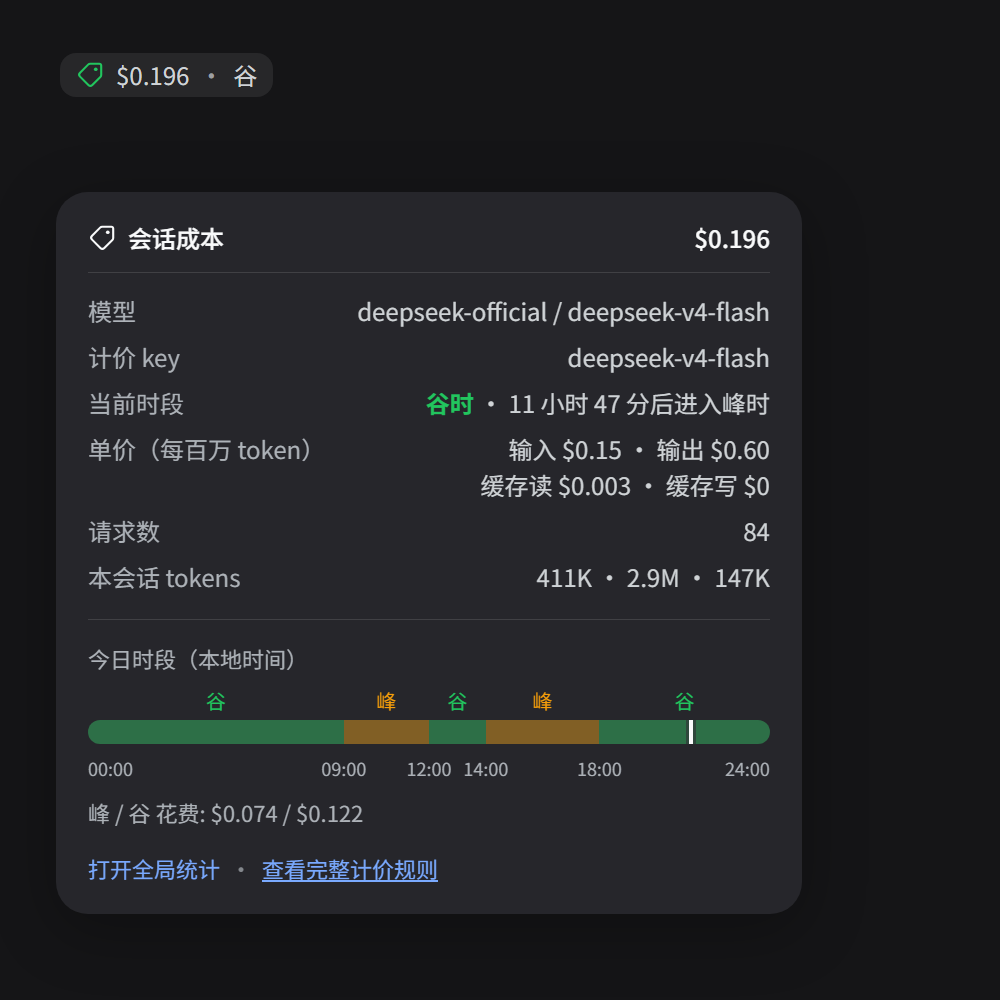
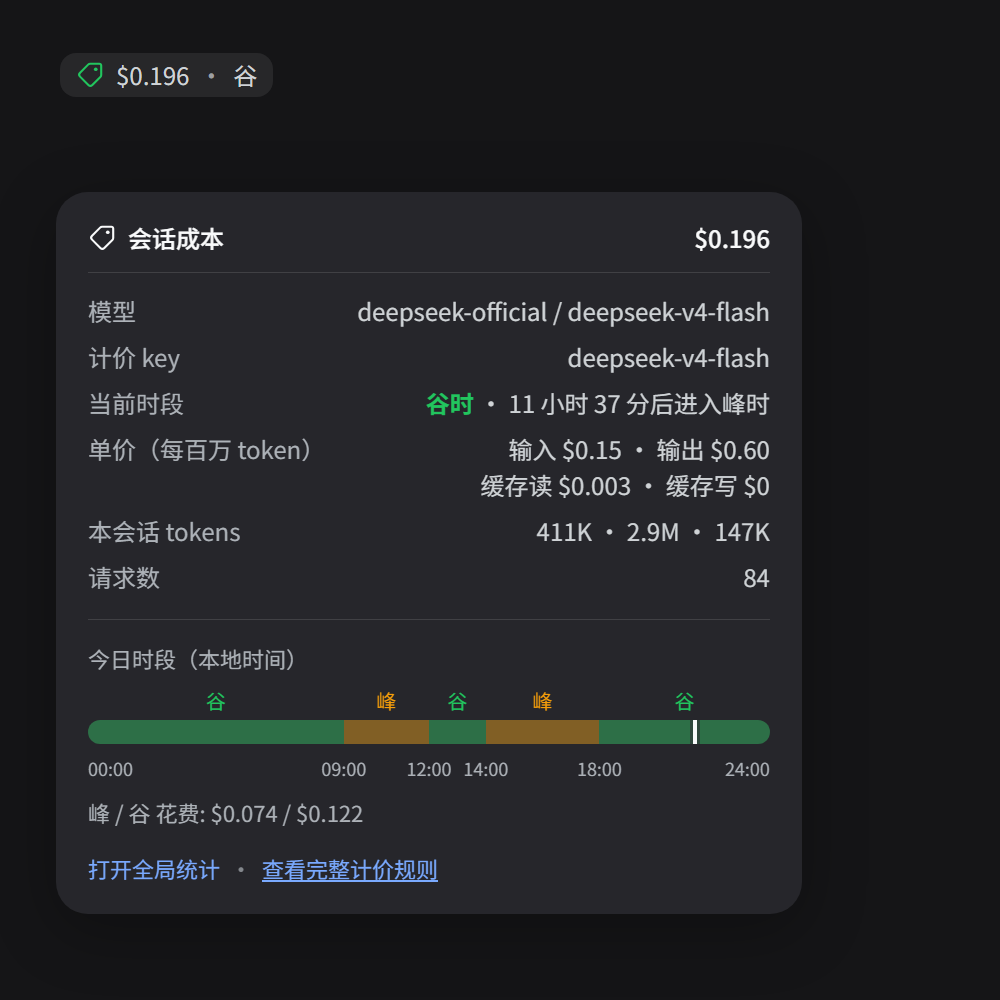
README：更新截图与图表说明

diff --git a/README.md b/README.md
@@ -27,7 +27,7 @@ DeepSeek Harness 的模型花费统计插件。它把会话日志里每次模型
 - 悬停（或点击钉住）展开详情：模型路由、计价 key、当前时段与「多久后进入峰/谷」、
   每百万 token 的输入/输出/缓存读/缓存写单价、**今天的时间条**（按本地时区把一天切成峰/谷区段，
   上方标峰/谷、下方标时间刻度、条内画出「现在」的位置）、
-  本会话请求数与 tokens、峰/谷花费拆分，以及按模型的花费明细。
+  本会话 tokens 与请求数、峰/谷花费拆分，以及按模型的花费明细。
 - 面板底部给出「查看完整计价规则」链接，指向价目表条目自带的 `source`（供应商官方定价页）；
   条目没有 `source` 时退回 [models.litellm.ai](https://models.litellm.ai/)。
 - 会话还没有任何计费调用时不显示，避免空占位。
@@ -52,16 +52,19 @@ DeepSeek Harness 的模型花费统计插件。它把会话日志里每次模型
 - **来源筛选**：工具栏下方按 provider 列出该范围内每个来源的花费，点一下就把这个来源
   从概览卡片、走势图和分组表里去掉，再点恢复。选择记在浏览器本地（`localStorage`），
   下次打开页面仍生效；价格映射表始终列出全部路由，免得被藏起来的来源无法修价。
-- **概览卡片**：总成本、请求数、总 tokens、缓存命中率、峰/谷占比、未定价调用数。
-- **用量走势图**：按天一根柱子的花费 / 请求 / Tokens 走势，可在三种指标间切换。
-  花费模式下柱子按峰（黄）/ 谷（绿）/ 无峰谷（主题色）堆叠；没有记录的日子画成空位，
-  时间轴按真实日期连续铺开，不会把空档挤掉。时间跨度长时自动汇总：超过 120 天按周、
-  超过 540 天按月，标题会注明当前口径。**范围内只有一天数据时（例如「今天」）自动改成
-  按小时展开**：24 根柱子、刻度为 00/04/08/12/16/20/23。
-  悬停任意柱子，一个跟随指针的卡片给出那个时段（天/周/月/小时）的日期、当前指标，
-  以及花费、调用数、tokens 与峰/谷拆分。卡片在柱子之间移动时连续跟随，
-  靠近右侧或底部时自动翻到指针另一侧。
-- **分组表**：每组成本、占比条形、调用数、输入/缓存读/输出 tokens。
+- **概览卡片**：总成本、总 tokens、请求数、缓存命中率、峰/谷占比、未定价调用数。
+- **用量走势图**：按天一根柱子的花费 / Tokens / 请求走势，可在三种指标间切换。
+  花费模式下柱子按峰（黄）/ 谷（绿）/ 无峰谷（DeepSeek 蓝）堆叠；**Tokens 模式**把
+  缓存读、缓存写、未缓存输入、输出拆成四段，用四档深浅不同的蓝区分，图例、悬停卡片
+  和柱子使用同一组颜色。没有记录的日子画成空位，时间轴按真实日期连续铺开，不会把空档挤掉。
+  时间跨度长时自动汇总：超过 120 天按周、超过 540 天按月，标题会注明当前口径。
+  **范围内只有一天数据时（例如「今天」）自动改成按小时展开**：24 根柱子、刻度为 00/04/08/12/16/20/23。
+  悬停任意柱子，一个跟随指针的卡片给出那个时段（天/周/月/小时）的日期、峰/谷花费拆分、
+  四类 token 各自的数量与请求数。卡片在柱子之间移动时连续跟随，靠近右侧或底部时自动翻到指针另一侧。
+
+![Tokens 视图：四类 token 用四档蓝色](docs/images/stats-tokens.png)
+
+- **分组表**：每组成本、占比条形（同样按峰/谷/无峰谷填色）、调用数、输入/缓存读/输出 tokens。
   标题旁显示扫描了多少个会话，以及其中多少个直接来自本地缓存。
 - **价格映射**：列出会话记录里观察到的每一条 `provider / model` 路由，
   显示当前解析结果（自动 / 多义 / 未定价）与它使用的价目表 key，并可改成本地映射规则。
